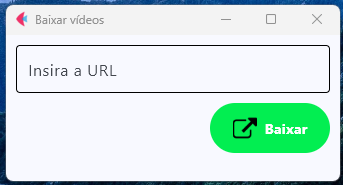
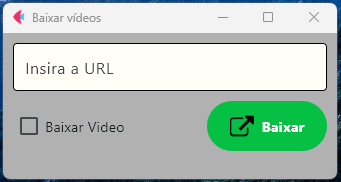
Add files via upload

diff --git a/layout.py b/layout.py
@@ -1,6 +1,6 @@
 import flet as ft
 from flet import Colors
-from functions.method import dowload_video
+from functions.method import download_music, download_video
 
 def main(page: ft.Page):
     page.title = 'Baixar vídeos'
@@ -8,16 +8,27 @@ def main(page: ft.Page):
     page.window.always_on_top = True
     page.window.height = 185
     page.window.width = 350
+    page.bgcolor= "#b1b1b1"
     page.window.center()
 
     # Função chamada quando o botão é clicado
     def on_click(e):
-        url = tb.value  # <-- pega o valor digitado        
-        tb.value = " "
-        page.snack_bar = ft.SnackBar(ft.Text(f"URL recebida: {url}"))
-        page.snack_bar.open = True
-        page.update()
-        dowload_video(url)
+        if check_box.value == False:
+            url = tb.value  # <-- pega o valor digitado        
+            tb.value = " "
+            page.snack_bar = ft.SnackBar(ft.Text(f"URL recebida: {url}"))
+            page.snack_bar.open = True
+            check_box.value = False
+            page.update()
+            download_music(url)
+        else:
+            url = tb.value  # <-- pega o valor digitado        
+            tb.value = " "
+            page.snack_bar = ft.SnackBar(ft.Text(f"URL recebida: {url}"))
+            page.snack_bar.open = True
+            check_box.value = False
+            page.update()
+            download_video(url)          
 
 
 # Imagem que vai dentro do botão (use caminho local ou URL)
@@ -27,7 +38,7 @@ def main(page: ft.Page):
         height=24,
     )
     # Campo de texto
-    tb = ft.TextField(label="Insira a URL")
+    tb = ft.TextField(label="Insira a URL", bgcolor="#fffff8")
 
     # Botão
      # Botão com imagem + texto
@@ -43,19 +54,25 @@ def main(page: ft.Page):
         width=120,
         height=50,
         border_radius=40,
-        bgcolor="#02ee51",
+        bgcolor="#06c044",
         alignment=ft.alignment.center,
         ink=True,  # permite clique visual
         on_click= on_click
     )
-
-    # Alinhar o botão à direita
-    linha_botao = ft.Row(
-        controls=[botao],
-        alignment=ft.MainAxisAlignment.END  # <-- alinha à direita
+    # CheckBox
+    check_box = ft.Checkbox( label= 'Baixar Video',
+                            on_change= lambda e: None
+    )
+    # Linha contendo checkbox à esquerda e botão à direita
+    linha_controles = ft.Row(
+        controls=[
+            check_box,
+            botao
+        ],
+        alignment=ft.MainAxisAlignment.SPACE_BETWEEN  # <-- separa nas extremidades
     )
 
     # Adicionar os elementos na página
-    page.add(tb, linha_botao)
+    page.add(tb, linha_controles)
 
 ft.app(main)

diff --git a/functions/method.py b/functions/method.py
@@ -4,7 +4,7 @@ import os
 import win32api
 import win32con
 
-def dowload_video(url):
+def download_music(url):
     try:
         yt = YouTube(url)
         print(f"🎶 Baixando áudio de: {yt.title}")
@@ -23,8 +23,35 @@ def dowload_video(url):
         # Remove o arquivo original (m4a/mp4)
         os.remove(arquivo_baixado)
 
-        win32api.MessageBox(0, f"B✅ Convertido e salvo como: {mp3_arquivo}"," Sucesso", win32con.MB_OK | win32con.MB_ICONINFORMATION)
+        win32api.MessageBox(0, f"✅ Convertido e salvo como: \n {mp3_arquivo}"," Sucesso", win32con.MB_OK | win32con.MB_ICONINFORMATION)
 
     except Exception as e:
-        win32api.MessageBox(0, f"❌ Erro ao baixar/converter: {e}","Falha", win32con.MB_OK | win32con.MB_ICONINFORMATION)
+        win32api.MessageBox(0, f"❌ Erro ao baixar/converter :\n {e}","Falha", win32con.MB_OK | win32con.MB_ICONWARNING)
 
+
+def download_video(url):
+    try:
+        yt = YouTube(url)
+        
+        # Baixa video
+        stream = yt.streams.get_highest_resolution()
+        arquivo_baixado = stream.download(output_path = 'downloads/video')
+
+        # Renomeia arquivo
+        base, _ = os.path.splitext(arquivo_baixado)
+        nome_video = base
+
+        win32api.MessageBox(
+            0,
+            f"✅ Vídeo '{nome_video}' baixado com sucesso!\nSalvo em: {base}",
+            "Sucesso",
+            win32con.MB_OK | win32con.MB_ICONINFORMATION,
+        )
+
+    except Exception as erro:
+        win32api.MessageBox(
+            0,
+            f"❌ Erro ao baixar/converter vídeo:\n{erro}",
+            "Falha",
+            win32con.MB_OK | win32con.MB_ICONWARNING,
+        )
